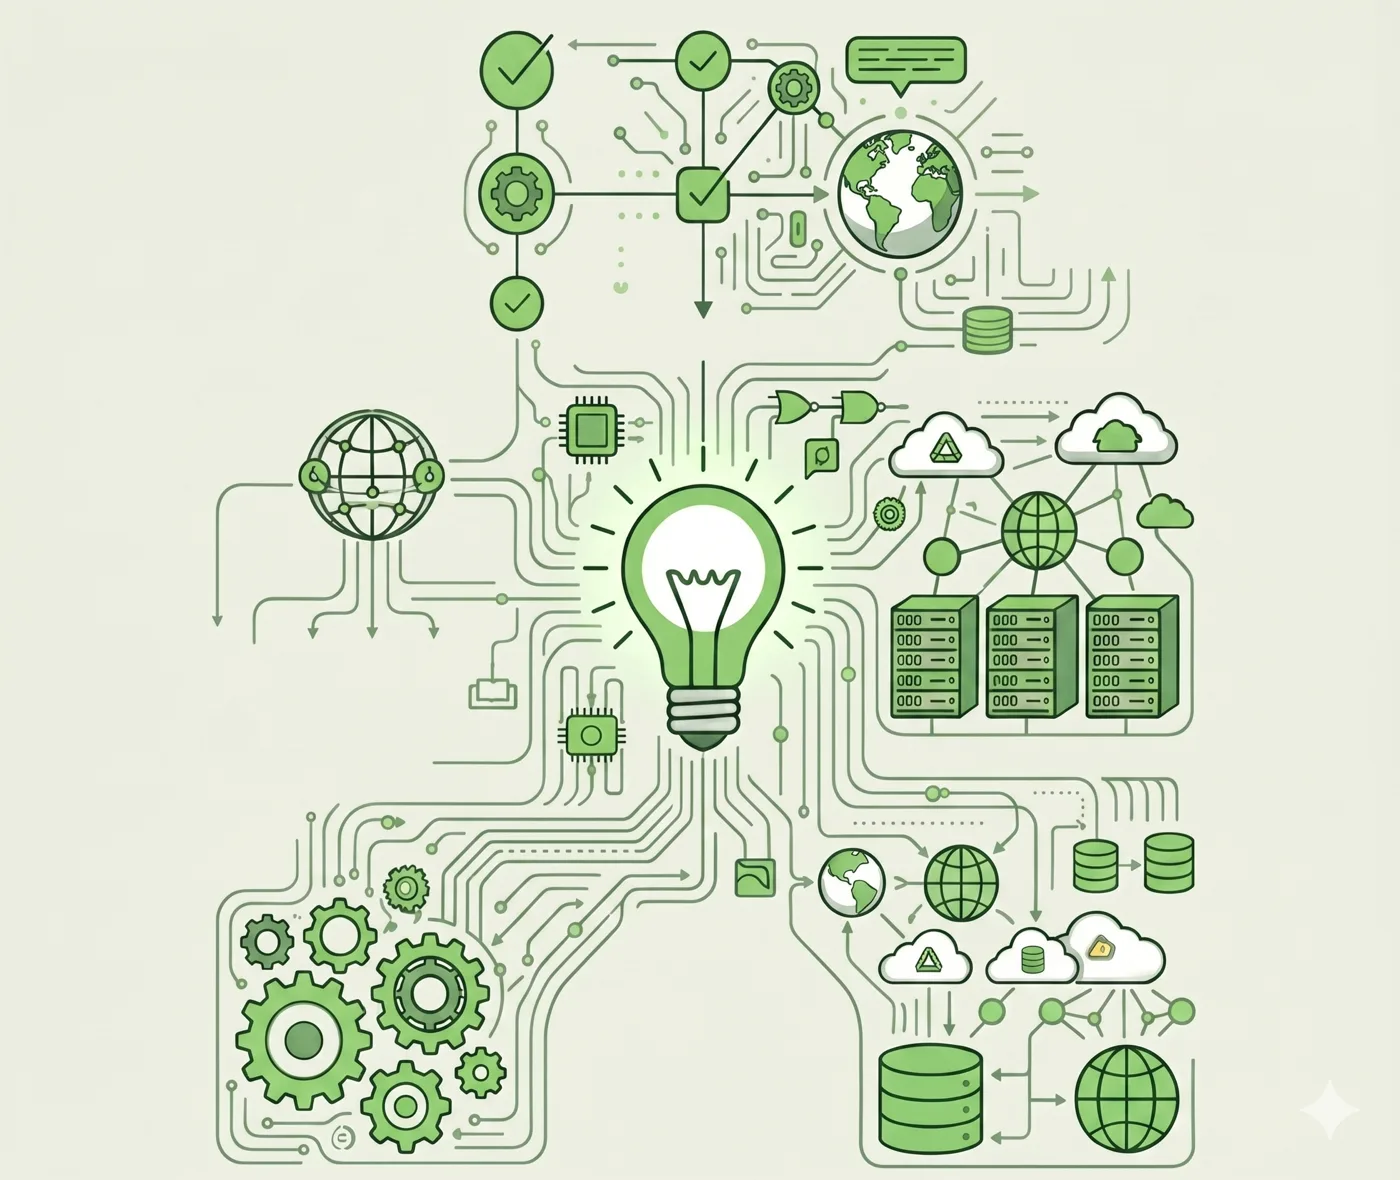
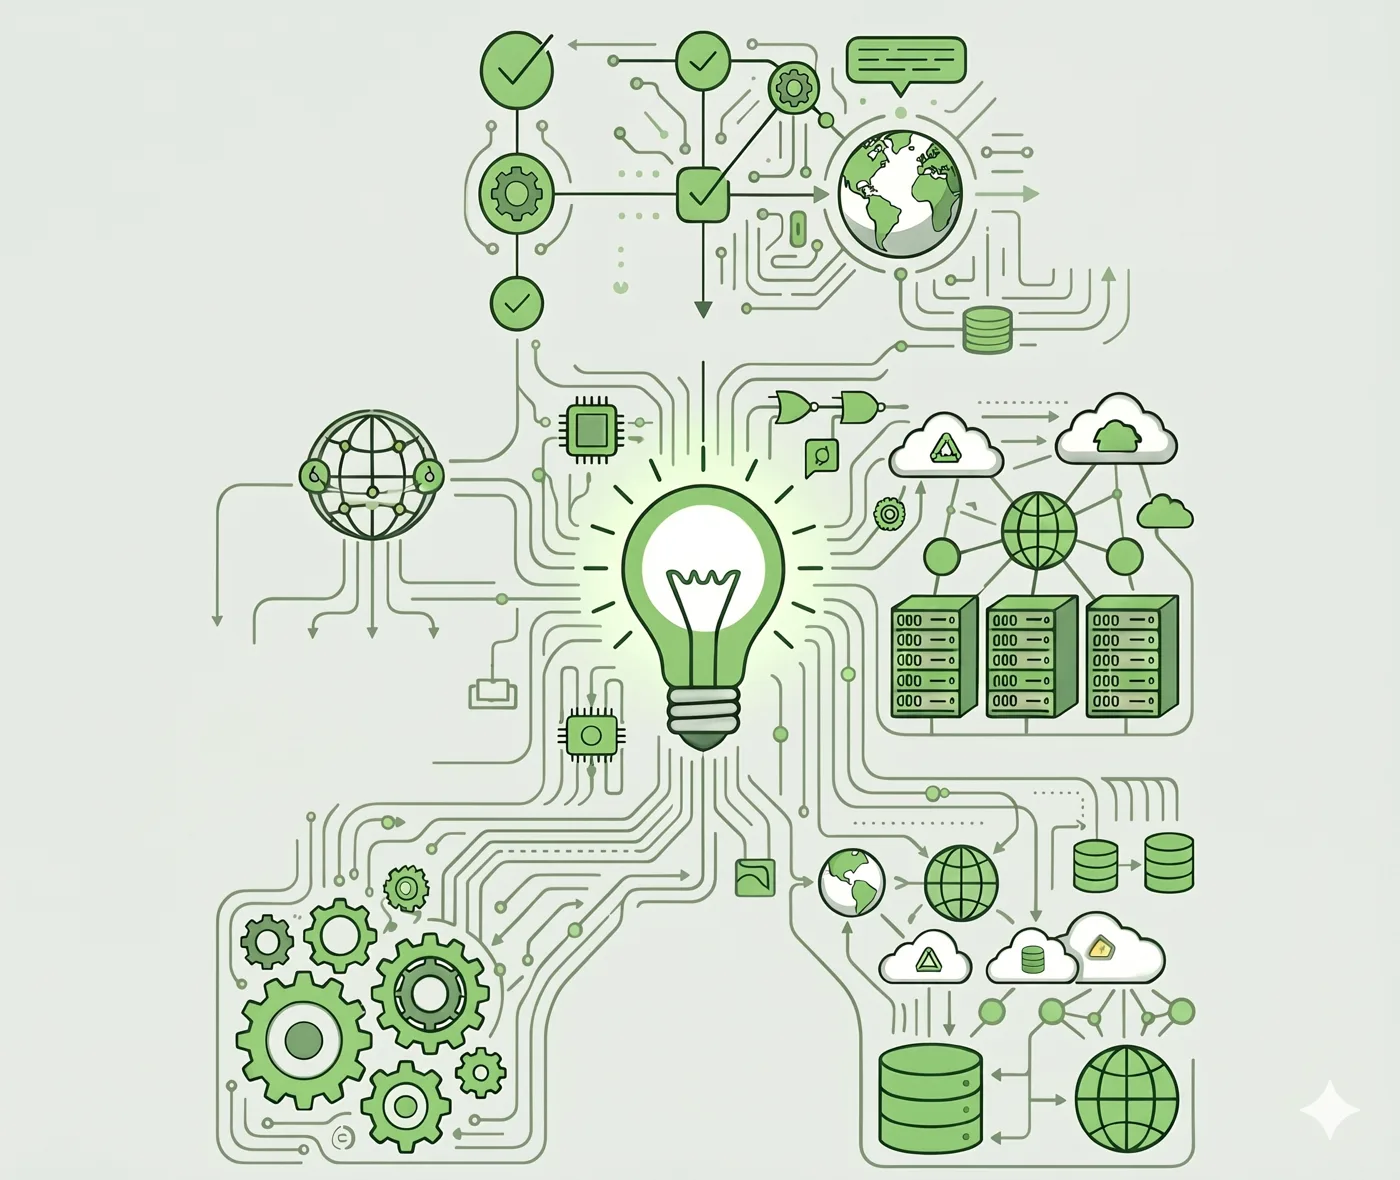
feat(home): update hero image (matched bg) and use object-contain
New illustration exported with a background matching the hero section
(#e8ebe6); switch to object-contain so the full illustration shows and
its background blends into the section.

diff --git a/app/page.tsx b/app/page.tsx
@@ -84,7 +84,7 @@ export default function HomePage() {
                 fill
                 priority
                 sizes="(max-width: 1024px) 100vw, 600px"
-                className="object-cover"
+                className="object-contain"
               />
             </div>
             <div className="absolute -left-[18px] -bottom-[22px] bg-canvas rounded-lg px-5 py-4 shadow-float flex items-center gap-3.5 max-w-[260px]">
